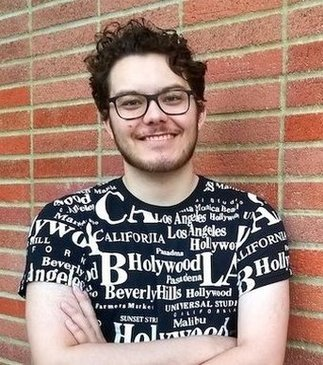
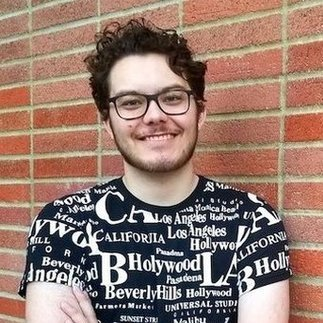
Officer photo tweaks + Footer update (#49)
* Updates to photos for Kade, Evan, and William

* Update Instagram handle in footer

diff --git a/src/components/Footer/index.jsx b/src/components/Footer/index.jsx
@@ -11,7 +11,7 @@ export default class Footer extends React.Component {
 							<h3>Find us on social media</h3>
 							<a href="https://www.facebook.com/uclaacm" target="_BLANK"><div className="sm-icon" id="facebook" /></a>
 							<a href="https://www.github.com/uclaacm" target="_BLANK"><div className="sm-icon" id="github" /></a>
-							<a href="https://www.instagram.com/acm.ucla/" target="_BLANK"><div className="sm-icon" id="instagram" /></a>
+							<a href="https://www.instagram.com/uclaacm/" target="_BLANK"><div className="sm-icon" id="instagram" /></a>
 							<a href="https://medium.com/techatucla" target="_BLANK"><div className="sm-icon" id="medium" /></a>
 						</div>
 						<div className="footer-item">
